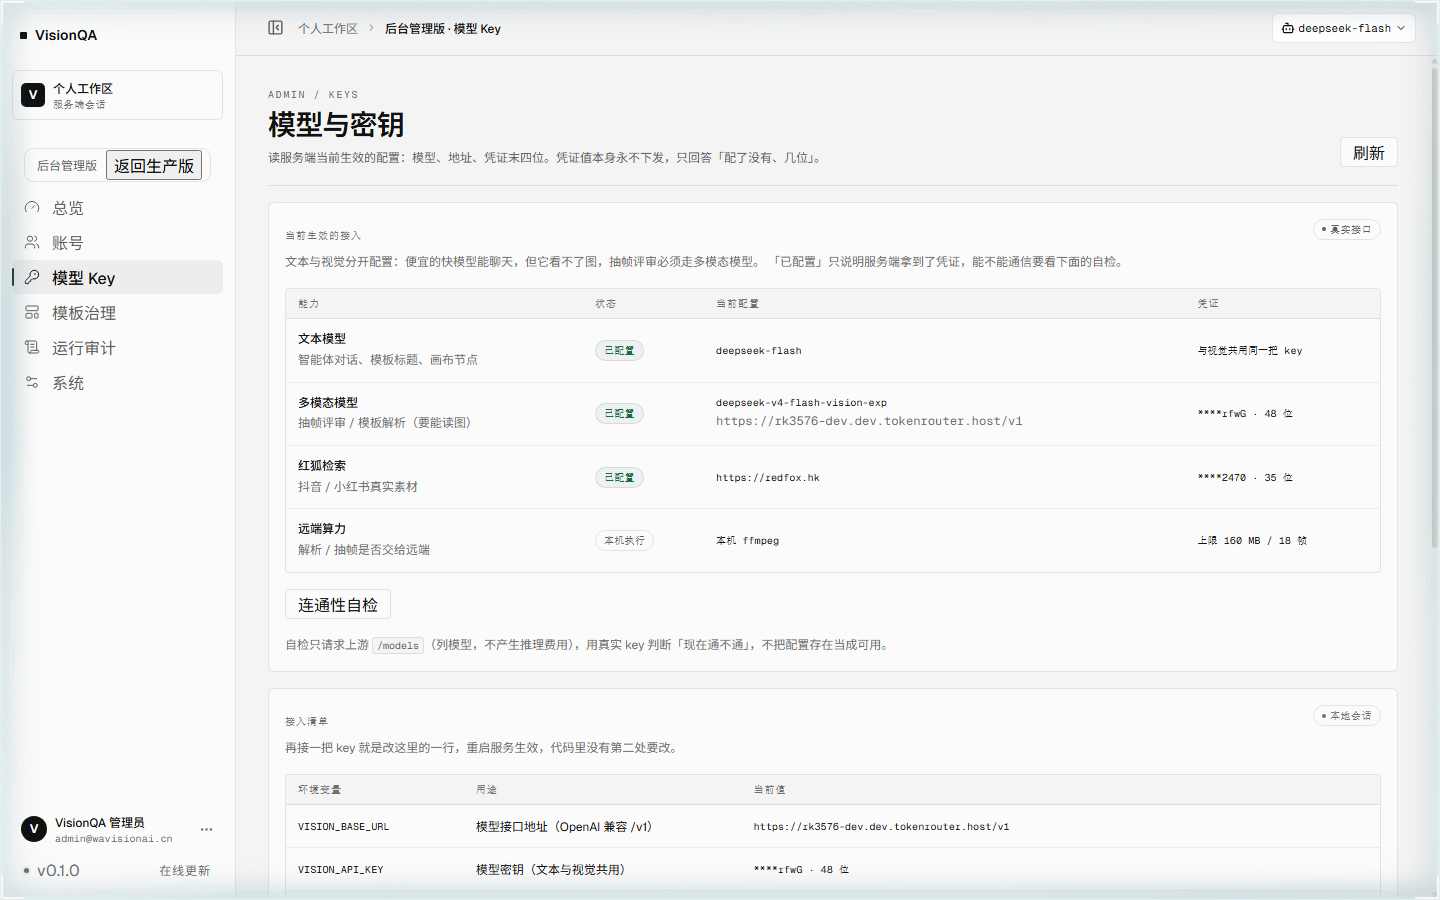
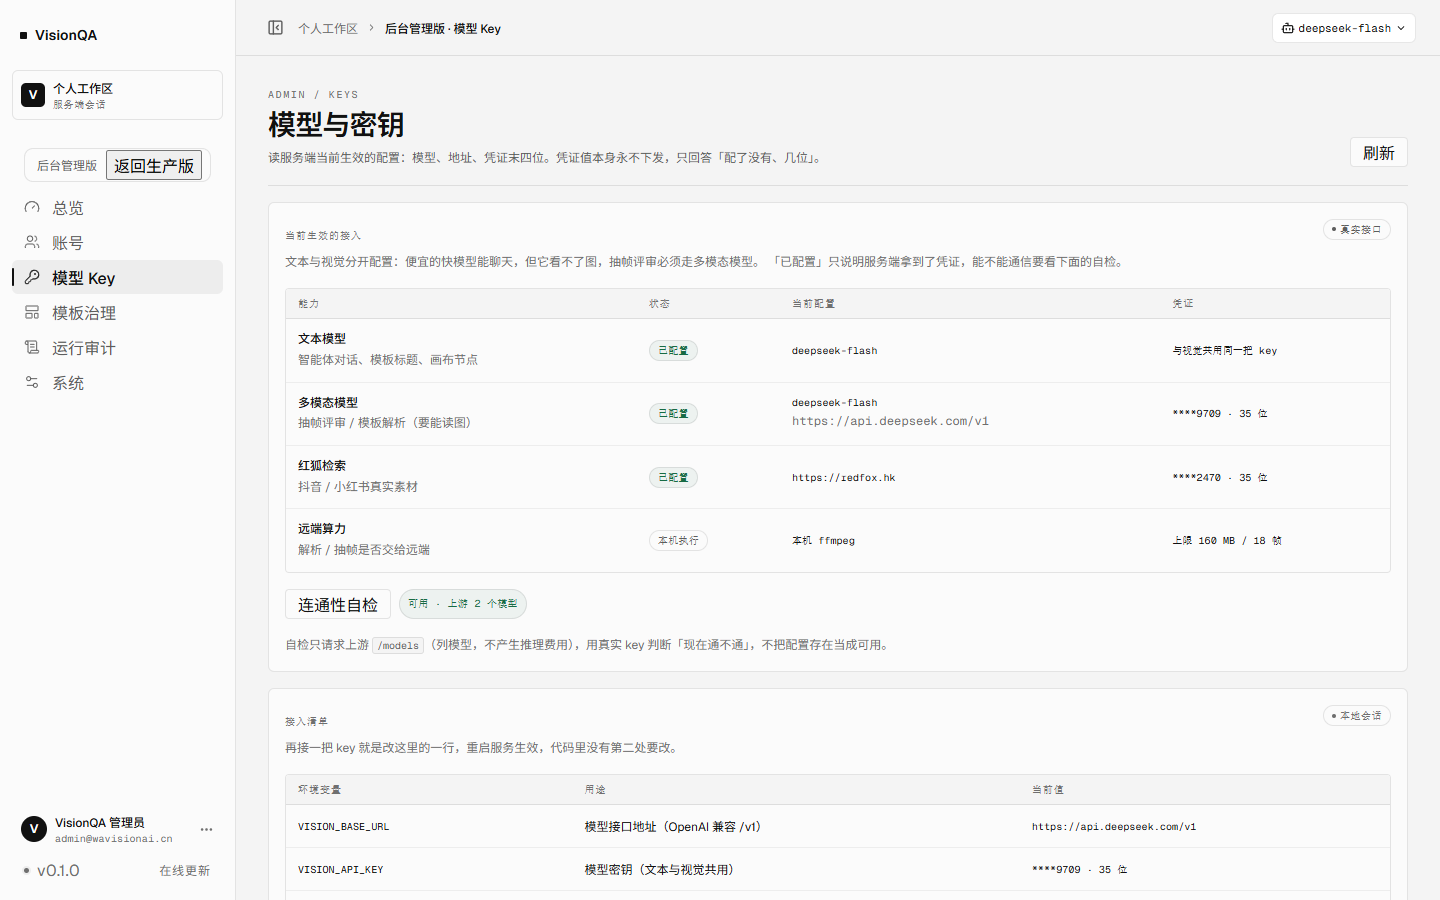
feat(model): 换官方 DeepSeek，文本与视觉共用 deepseek-flash
- 环境：VISION_BASE_URL=https://api.deepseek.com/v1；LLM_MODEL 与 VISION_MODEL 都是
  deepseek-flash（自报 input_modalities 含 image），LLM_FALLBACKS=deepseek-v4-pro
- 新增 server/chatcall.mjs：response_format=json_object、finish_reason=length 判可重试、
  网关不认 response_format（400）时回退；文本与多模态共用同一套调用
- vision：max_tokens 4000→8000。推理 token 计入额度，18 帧逐帧 JSON 实测 4800，
  原来会被截断成半截 JSON、每次都要多跑一轮修复重试
- review：1600→3000 token + json 模式
- 前端不再硬编码模型名：检查器候选与 llm 节点默认值改读 /api/models；
  库里旧智能体存的假模型名（gpt-6.1-sol 之类）读取时折成当前模型，
  否则每次对话都先打一次不存在的模型再降级
- 文档与三张线上实拍更新（工作台 / 智能体真实回复 / 后台连通性自检通过）

实测（2026-11-09 17:20 线上）：probe ok count=2；智能体 200 / 6.0s；
/api/review 200 / 16.6s；analyzeFrames 3 帧 15s 出合法分镜 JSON。

diff --git a/src/components/ModelSwitch.tsx b/src/components/ModelSwitch.tsx
@@ -13,6 +13,34 @@ type Catalog = {
 
 const STORAGE_KEY = 'vq.model'
 
+// 一个进程只打一次 /api/models：顶栏与检查器的模型候选共用同一份
+let catalogPromise: Promise<Catalog | null> | null = null
+
+function loadCatalog(): Promise<Catalog | null> {
+  if (!catalogPromise) {
+    catalogPromise = fetch('/api/models')
+      .then((res) => (res.ok ? res.json() : null))
+      .catch(() => null)
+  }
+  return catalogPromise
+}
+
+/** 检查器里 llm 节点的模型候选：服务端清单，前端不写死任何模型名。 */
+export function useModelIds(): string[] {
+  const [ids, setIds] = useState<string[]>([])
+  useEffect(() => {
+    let alive = true
+    loadCatalog().then((json) => {
+      if (!alive || !json) return
+      setIds((json.models ?? []).map((item) => item.id))
+    })
+    return () => {
+      alive = false
+    }
+  }, [])
+  return ids
+}
+
 /** 当前选中的模型。调用方拿它拼请求参数，切换后立刻生效。 */
 export function selectedModel(): string {
   try {
@@ -35,12 +63,9 @@ export function ModelSwitch() {
 
   useEffect(() => {
     let alive = true
-    fetch('/api/models')
-      .then((res) => (res.ok ? res.json() : null))
-      .then((json) => {
-        if (alive && json) setCatalog(json)
-      })
-      .catch(() => {})
+    loadCatalog().then((json) => {
+      if (alive && json) setCatalog(json)
+    })
     return () => {
       alive = false
     }

diff --git a/src/canvas/Inspector.tsx b/src/canvas/Inspector.tsx
@@ -3,11 +3,11 @@ import type { ReactNode } from 'react'
 import type { Node } from '@xyflow/react'
 import {
   CONTENT_TYPE_OPTIONS,
-  MODEL_OPTIONS,
   NODE_META,
   STATUS_TEXT,
   TOOL_OPTIONS,
 } from './catalog'
+import { useModelIds } from '../components/ModelSwitch'
 import type { FlowNodeData, NodeConfig } from './types'
 
 type InspectorProps = {
@@ -29,6 +29,9 @@ function Field({ label, hint, children }: { label: string; hint?: string; childr
 }
 
 export function Inspector({ node, onPatch, onConfig, onDuplicate, onDelete }: InspectorProps) {
+  // 模型候选来自服务端 /api/models；hook 必须在提前 return 之前调用
+  const modelIds = useModelIds()
+
   if (!node) {
     return (
       <aside className="cv-inspector cv-inspector--empty" aria-label="节点检查器">
@@ -103,7 +106,7 @@ export function Inspector({ node, onPatch, onConfig, onDuplicate, onDelete }: In
                   onChange={(event) => onConfig({ model: event.target.value }, 'model')}
                 />
                 <datalist id="cv-model-options">
-                  {MODEL_OPTIONS.map((model) => <option key={model} value={model} />)}
+                  {modelIds.map((model) => <option key={model} value={model} />)}
                 </datalist>
               </Field>
               <Field label="温度">

diff --git a/src/canvas/catalog.ts b/src/canvas/catalog.ts
@@ -52,7 +52,8 @@ export const NODE_META: Record<FlowNodeKind, NodeMeta> = {
     defaultTitle: '创作建议生成',
     defaultDescription: '结合上游输入和知识库上下文，生成可执行建议',
     defaultConfig: {
-      model: 'gpt-6.1-sol',
+      // 留空 = 跟随服务端 /api/models 的当前模型；前端不写死任何模型名
+      model: '',
       temperature: 0.4,
       systemPrompt: '你是 VisionQA 的内容与视觉编导。结合上游素材与知识库上下文，给出具体、可执行的视觉与文案建议，分条列出，不要空泛。',
     },
@@ -115,8 +116,6 @@ export const PALETTE_GROUPS: { label: string; kinds: FlowNodeKind[] }[] = [
   { label: '处理', kinds: ['llm', 'tool', 'condition'] },
   { label: '输出', kinds: ['output'] },
 ]
-
-export const MODEL_OPTIONS = ['gpt-6.1-sol', 'gpt-6-luna', 'gpt-6.1-terra', 'tokenrouter-agent/grok-4.6']
 
 export const TOOL_OPTIONS = [
   { id: 'templates.stats', label: '模板库统计' },

diff --git a/docs/launch-readiness.md b/docs/launch-readiness.md
@@ -79,7 +79,7 @@
 
 ### P0 —— 不补就是空壳
 
-1. **视觉模型凭证**（`VISION_API_KEY` / `VISION_BASE_URL` / `VISION_MODEL`）：一次填好，评审与智能体对话同时活过来。这是产品名里「Vision」的唯一支撑。
+1. ~~**视觉模型凭证**（`VISION_API_KEY` / `VISION_BASE_URL` / `VISION_MODEL`）~~ —— **2026-11-09 17:20 已接上官方 DeepSeek**（`deepseek-flash` 自带图片输入），评审与智能体对话同时在真实数据上跑通，见三点六。
 2. **检索凭证**（`REDFOX_API_KEY`）：雷达从「示例数据」变成真实检索。
 3. **至少一次真实复刻入库**：模板库非空，工作台才有内容可看；现在 0 条。
 4. **账号发放路径**：`npm run adduser` 已补，但还得定「谁能拿到账号、口令怎么给」。注册是关的。
@@ -116,16 +116,39 @@
 `bash /tmp/vq-deploy2.sh`（备份 dist → 解包 → 重启 → 验 health）。以后不要再跟控制台的
 「命令助手 / 画布转存」较劲：那两条路一条区域配额满、一条要手点 UI。
 
-**仍然挡在上线前面的新发现（P0 里的第 1 条）**：给的模型地址
-`rk3576-dev.dev.tokenrouter.host` 在服务器上解析到 **10.0.51.120（内网）**，
-`curl` 15 秒超时——也就是说：
+~~上一轮给的模型地址解析到内网 10.0.51.120，链路不通~~ —— 这条已在三点六解决。
 
-- 配置写进去了、`/api/health` 的 `vision` 为 true（它只代表「有凭证」）；
-- **真正调用会失败**，智能体对话与视觉评审在服务器上仍然跑不起来；
-- 管理后台「连通性自检」按钮现在会如实报 `fetch failed`，这是它存在的意义。
+## 三点六、模型接入换成官方 DeepSeek（2026-11-09 17:20 已上线）
 
-要真正跑起来，需要一个**公网可达**的 OpenAI 兼容地址 + key（官方 DeepSeek / 火山方舟 / 阿里百炼都行），
-换 `VISION_BASE_URL` `VISION_API_KEY` 两行 + 重启即可，不用改代码。
+**结论：模型这条链路通了，智能体对话与视觉评审都能在真实数据上跑出结果。**
+
+| 项目 | 结果 |
+| --- | --- |
+| 接口 | `VISION_BASE_URL=https://api.deepseek.com/v1`（文本与视觉共用） |
+| 模型 | `deepseek-flash` 同时承担对话与抽帧；自报 `input_modalities=["text","image"]`、`context_window 1048576` |
+| 文本降级 | `LLM_FALLBACKS=deepseek-v4-pro`（该模型只吃文本，只能当文本兜底） |
+| 线上 bundle | `index-sR4ooPeo.js` |
+| `/api/config` | `baseUrl=https://api.deepseek.com/v1` · `apiKeyMasked=****9709 · 35 位` · `vision.models=["deepseek-flash"]` |
+| 连通性自检（`POST /api/config/probe`） | `{"ok":true,"status":200,"count":2,"models":["deepseek-flash","deepseek-v4-pro"]}` |
+| 智能体对话 | `POST /api/agents/agt_ads01/chat` → 200 · 6.0 秒 · 真实文案（模型写 `deepseek-flash`） |
+| 视觉评审 | `POST /api/review` → 200 · 16.6 秒 · verdict + 带像素锚点的 observations（provider `local-model:deepseek-flash`） |
+| 抽帧分析 | 生产函数 `analyzeFrames()` 在服务器上跑 3 帧 → 合法分镜 JSON（15 秒） |
+
+**顺手修掉的四个真实问题**（都是「换个模型才暴露」的）：
+
+1. **`max_tokens` 被推理 token 吃满**：`deepseek-flash` 先产 `reasoning_content`，
+   18 帧的逐帧 JSON 实测 4800 token 上下，原来给 4000 会被截断成半截 JSON，
+   每次复刻都白白多跑一次「修复指令」重试。现在 8000，并按 `finish_reason=length` 判可重试。
+2. **正文被 markdown 代码块包裹**：改走 `response_format={"type":"json_object"}` 直接拿纯 JSON；
+   网关不认这个字段时（400）自动退回不带它的请求，不让整条链路判死。
+3. **前端还写着 4 个不存在的模型名**（`gpt-6.1-sol` 之类）：检查器的模型候选与 llm 节点默认值
+   都改成读 `/api/models`，前端不再硬编码任何模型名；库里旧智能体存的假模型名在读取时折成当前模型，
+   否则每次对话都要先打一次不存在的模型再降级。
+4. **两个调用点各写一份 fetch**：抽成 `server/chatcall.mjs`，文本与多模态共用同一套
+   「json 模式 / 截断判定 / 400 兼容回退」。
+
+**这一轮之后仍然挡在上线前面的**：模板库 0 条（「一键复刻」还没跑过一条真实视频，
+跑通它才算整条链路闭环）、没有队列与配额、没有找回密码与用户列表接口。
 
 红狐这条是真的通了：`/api/search` 返回 `mode:"live"`，封面经 `/api/cover` 代理加载（小红书封面
 是 http 且只认 https + 站点 Referer，代理里已做协议升级与重试）。
